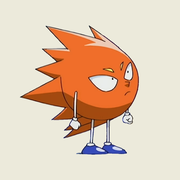
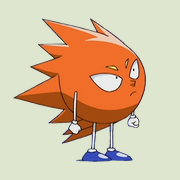
Add files via upload

Changed region(s): [[0.0556, 0.0833, 0.8333, 0.9167]]

diff --git a/index.html b/index.html
@@ -9,12 +9,12 @@
 <meta name="apple-mobile-web-app-capable" content="yes">
 <meta name="mobile-web-app-capable" content="yes">
 <meta name="apple-mobile-web-app-status-bar-style" content="default">
-<meta name="theme-color" content="#ECEADB">
+<meta name="theme-color" content="#DFE6CF">
 <link rel="apple-touch-icon" href="apple-touch-icon.png">
 <link rel="icon" type="image/png" href="favicon.png">
 <link rel="manifest" href="manifest.webmanifest">
 <style>
-  html, body { margin: 0; height: 100%; background: #ECEADB; overflow: hidden; }
+  html, body { margin: 0; height: 100%; background: #DFE6CF; overflow: hidden; }
   iframe { display: block; width: 100%; height: 100%; border: 0; }
 </style>
 </head>
